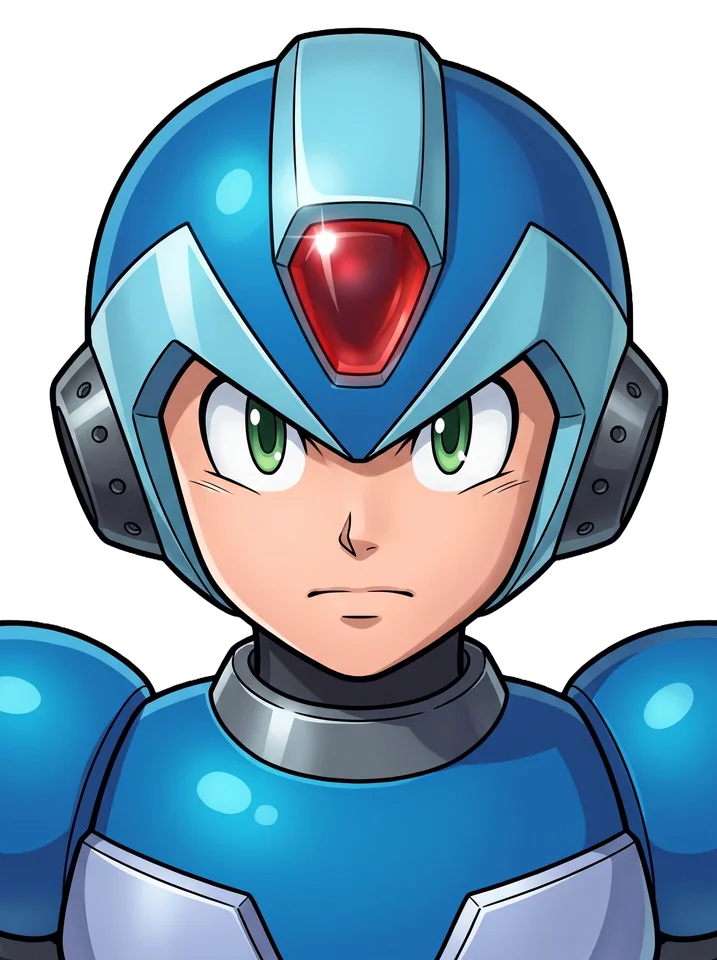
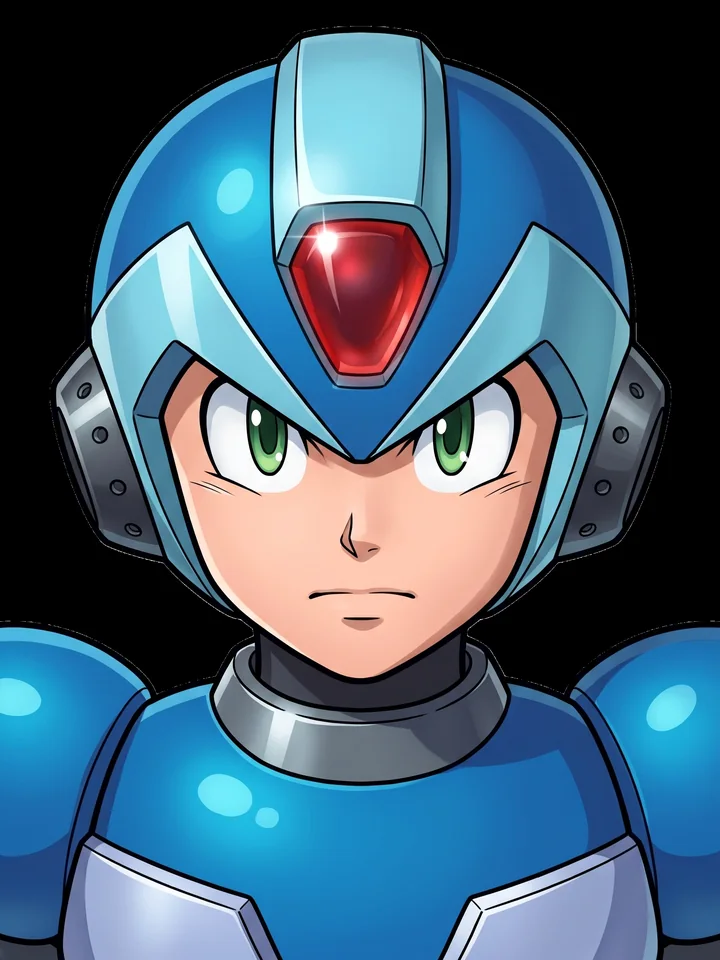
MMX9 art: Alia, Palette, Layer, new Gamma and Ruby art, front & back sheets
mmx9_assets.py: square images are front & back sheets; every profile picture
is cropped to exactly 720x960 so all cards match.

Claude-Session: https://claude.ai/code/session_019zdtxb7NsC4peui9eBTnWL

diff --git a/tools/mmx9_assets.py b/tools/mmx9_assets.py
@@ -21,9 +21,10 @@ Folder layout (Danloud Labs/Cloudflare/Banners/MMX9):
 Inside a character folder, the role of each image is decided like on the Amaphest pages:
   name contains "F&B", "FB", "turnaround" or "CGI"      -> front & back sheet
   name contains "wallpaper"                             -> 16:9 wallpaper (hero of its page)
-  landscape close to 4:3                                -> front & back sheet
+  square or landscape close to 4:3                      -> front & back sheet
   landscape close to 16:9                               -> 16:9 wallpaper
-  any other portrait image                              -> profile picture (cards)
+  any other portrait image                              -> profile picture (cards), cropped to 3:4
+A square portrait (face) must be named profile… to be used as the profile picture.
 When several files match the same role, the newest one wins. Renaming a file to
 profile / wallpaper / turnaround always forces its role.
 """
@@ -64,9 +65,29 @@ def role_of(path: Path, size):
     if 'wallpaper' in n:
         return 'wallpaper'
     w, h = size
-    if w > h * 1.2:
-        return 'wallpaper' if w / h >= 1.55 else 'turnaround'
+    if w / h >= 1.55:
+        return 'wallpaper'
+    if w / h >= 0.9:
+        return 'turnaround'   # square or 4:3 front & back sheets
     return 'profile'
+
+
+def save_art(src: Path, dst: Path, role: str):
+    """Like save(), but every profile picture comes out exactly 720x960 (3:4, centered crop,
+    a little above center to keep the face), so all the cards match."""
+    if role != 'profile':
+        return save(src, dst, role)
+    dst.parent.mkdir(parents=True, exist_ok=True)
+    with Image.open(src) as im:
+        im = im.convert('RGB')
+        w, h = im.size
+        if w / h > 0.75:
+            nw = round(h * 0.75); x = (w - nw) // 2; im = im.crop((x, 0, x + nw, h))
+        else:
+            nh = round(w / 0.75); y = (h - nh) // 3; im = im.crop((0, y, w, y + nh))
+        im = im.resize((720, 960), Image.LANCZOS)
+        im.save(dst, 'WEBP', quality=84, method=6)
+    return dst
 
 
 def pick(files):
@@ -131,7 +152,7 @@ def main():
             continue
         entry = {}
         for role, f in pick(images(folder)).items():
-            entry[role] = rel(save(f, OUT / f'characters/{slug}/{role}.webp', role))
+            entry[role] = rel(save_art(f, OUT / f'characters/{slug}/{role}.webp', role))
             print(f'{slug:24} {role:10} <- {f.name}')
         forms = []
         for d in dirs(folder):
@@ -141,7 +162,7 @@ def main():
             fs = form_slug(nfc(d.name))
             form = {'name': nfc(d.name), 'slug': fs}
             for role, f in pick(files).items():
-                form[role] = rel(save(f, OUT / f'characters/{slug}/{fs}/{role}.webp', role))
+                form[role] = rel(save_art(f, OUT / f'characters/{slug}/{fs}/{role}.webp', role))
                 print(f'{slug:24} {fs + "/" + role:28} <- {f.name}')
             forms.append(form)
         if forms:
